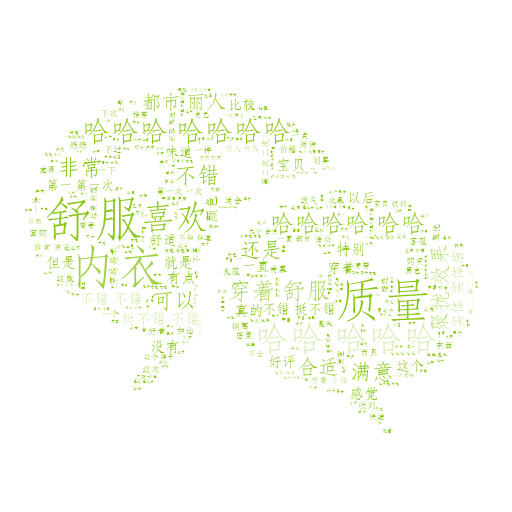
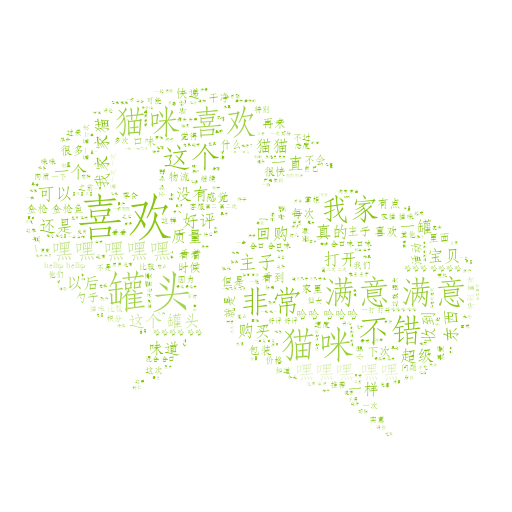
x

Changed region(s): [[0.0312, 0.1562, 0.9375, 0.8438]]

diff --git a/venv/Include/wechat/autoSendMessage.py b/venv/Include/wechat/autoSendMessage.py
@@ -2,6 +2,7 @@
 # Author: zww
 
 import itchat
+import requests
 import re
 # jieba分词
 import jieba
@@ -26,15 +27,17 @@ class WeChat():
         itchat.run()  # 让itchat一直运行
 
     # 回复信息
-    # @itchat.msg_register(itchat.content.TEXT)
-    def tuling_robot(self, msg):
+    # @itchat.msg_register(['Text', 'Picture', 'Sharing', 'Video', 'Card'])
+    def text_reply(self, msg):
         # 为了保证在图灵Key出现问题的时候仍旧可以回复，这里设置一个默认回复
-        defaultReply = '不想说话了！'
+        # defaultReply = '不想说话了！\n来自旺旺的语音助理'
+        defaultReply = '不想说话了！' + "*"
         # 如果图灵Key出现问题，那么reply将会是None
-        reply = self.getget_response(msg['Text'])
+        reply = get_response(msg['Text']) + "*"
         # a or b的意思是，如果a有内容，那么返回a，否则返回b
         # 有内容一般就是指非空或者非None，你可以用`if a: print('True')`来测试
         return reply or defaultReply
+
 
     def get_response(self, msg):
         # 构造了要发送给服务器的数据
@@ -125,28 +128,60 @@ class WeChat():
     def dailyInfo(self):
         print('dailyInfo do')
         hangz = dataUtil.getWeatherData('杭州')
-        # item = wechat.getFriend('阿勇')
-        # wechat.sendMessage(hangz, item)
+        nanchang = dataUtil.getWeatherData('南昌')
+        item = wechat.getFriend('喵喵女孩')
+        wechat.sendMessage(nanchang, item)
         group1 = wechat.getRoom('阿里A3研发部')
         wechat.sendMessage(hangz, group1)
         group2 = wechat.getRoom('幸福一家人')
         wechat.sendMessage(hangz, group2)
-        # if group1:
-        #     wechat.sendMessage(hangz, group1)
 
-
-def viewer( threadName):
-   print(threadName)
+# 回复信息
+# @itchat.msg_register(['Text', 'Picture', 'Sharing', 'Video', 'Card'])
+def text_reply(msg):
+    # 为了保证在图灵Key出现问题的时候仍旧可以回复，这里设置一个默认回复
+    # defaultReply = '不想说话了！\n来自旺旺的语音助理'
+    defaultReply = '不想说话了！' + "*"
+    # 如果图灵Key出现问题，那么reply将会是None
+    reply = get_response(msg['Text']) + "*"
+    # a or b的意思是，如果a有内容，那么返回a，否则返回b
+    # 有内容一般就是指非空或者非None，你可以用`if a: print('True')`来测试
+    return reply or defaultReply
+KEY = '71f9d9d2dd364ad8b28bd56527470176'
+def get_response(msg):
+    # 构造了要发送给服务器的数据
+    apiUrl = 'http://www.tuling123.com/openapi/api'
+    data = {
+        'key': KEY,
+        'info': msg,
+        'userid': 'wechat-robot',
+    }
+    try:
+        r = requests.post(apiUrl, data=data).json()
+        return r.get('text')
+    # 为了防止服务器没有正常响应导致程序异常退出，这里用try-except捕获了异常
+    # 如果服务器没能正常交互（返回非json或无法连接），那么就会进入下面的return
+    except Exception as e:
+        print('插入时发生异常' + e)
+        # 将会返回一个None
+        return
 
 def job1_task(wechat):
     threading.Thread(target=wechat.login()).start()
 
-wechat = WeChat()
-_thread.start_new_thread(wechat.login, ( ))
-schedule.every().day.at("8:00").do(wechat.dailyInfo)
-while True:
-    schedule.run_pending()
-    time.sleep(1)
+# wechat = WeChat()
+# _thread.start_new_thread(wechat.login, ( ))
+# schedule.every().day.at("8:00").do(wechat.dailyInfo)
+# while True:
+#     schedule.run_pending()
+#     time.sleep(1)
+
+# if __name__ == "__main__":
+#     wechat = WeChat()
+#     itchat.auto_login()
+#     friends = wechat.getFriends()
+#     wechat.signature(friends)
+#     wechat.ratio(friends)
 
 # if __name__ == "__main__":
 #     wechat = WeChat()

diff --git a/venv/Include/tmall/captureComment.py b/venv/Include/tmall/captureComment.py
@@ -1,0 +1,76 @@
+# -*- coding:utf-8 -*-
+# Author: zww
+
+from Include.commons.common import Common
+import jieba
+# wordcloud词云
+import matplotlib.pyplot as plt
+from wordcloud import WordCloud, ImageColorGenerator
+import os
+import numpy as np
+import PIL.Image as Image
+import json
+
+common = Common()
+
+# 获取商品评论数据
+def getCommentDetail(itemId,currentPage):
+    url = 'https://rate.tmall.com/list_detail_rate.htm?itemId=' + str(
+        itemId) + '&sellerId=2451699564&order=3&currentPage=' + str(currentPage) + '&append=0callback=jsonp336'
+    # itemId 产品id ； sellerId 店铺id 字段必须有值，但随意值就行
+    html = common.getUrlContent(url)  # 获取网页信息
+    # 删掉返回的多余信息
+    html = html.replace('jsonp128(','') #需要确定是不是 jsonp128
+    html = html.replace(')','')
+    html = html.replace('false','"false"')
+    html = html.replace('true','"true"')
+
+    # 将string 转换为字典对象
+    tmalljson = json.loads(html)
+    return tmalljson
+
+# 获取商品评论最大页数
+def getLastPage(itemId):
+    tmalljson = getCommentDetail(itemId,1)
+    return tmalljson['rateDetail']['paginator']['lastPage'] #最大页数
+
+
+if __name__ == '__main__':
+    itemId = input("输入你想查询的产品id: ");
+    maxPage = getLastPage(itemId)  # 获取商品评论最大页数
+    num = 1
+    commentList = []
+    while num <= maxPage and num < 20:  # 每个商品的评论我最多取20 页，每页有20条评论，也就是每个商品最多只取 400 个评论
+        try:
+            # 抓取某个商品的某页评论数据
+            tmalljson = getCommentDetail(itemId, num)
+            rateList = tmalljson['rateDetail']['rateList']
+
+            n = 0
+            while (n < len(rateList)):
+                rateContent = rateList[n]['rateContent']
+                commentList.append(rateContent)
+                n += 1
+            print(num)
+            num += 1
+        except Exception as e:
+            num += 1
+            print(e)
+            continue
+
+    text = "".join(commentList)
+    wordlist_jieba = jieba.cut(text, cut_all=True)
+    wl_space_split = " ".join(wordlist_jieba)
+
+    d = os.path.dirname(__file__)
+    alice_coloring = np.array(Image.open(os.path.join(d, "shopCart.jpg")))
+    my_wordcloud = WordCloud(background_color="white", max_words=2000, mask=alice_coloring,
+                             max_font_size=50, random_state=42, width=1000, height=860,
+                             font_path='C:/Windows/Fonts/STFANGSO.ttf').generate(wl_space_split)
+
+    image_colors = ImageColorGenerator(alice_coloring)
+    plt.imshow(my_wordcloud.recolor(color_func=image_colors))
+    plt.imshow(my_wordcloud)
+    plt.axis("off")
+    plt.show()
+    my_wordcloud.to_file(os.path.join(d, "shopCart1.png"))

diff --git a/venv/Include/amusement/paint.py b/venv/Include/amusement/paint.py
@@ -5,9 +5,9 @@ from PIL import Image
 #要索引的字符列表
 ascii_char = list("$@B%8&WM#*oahkbdpqwmZO0QLCJUYXzcvunxrjft/\|()1{}[]?-_+~<>i!lI;:,\"^`'. ")
 length = len(ascii_char)
-img = Image.open('06-0.png')      #读取图像文件
+img = Image.open('timg.jpg')      #读取图像文件
 (width,height) = img.size
-img = img.resize((int(width*1),int(height*1)))  #对图像进行一定缩小
+img = img.resize((int(width*1),int(height*0.7)))  #对图像进行一定缩小
 print(img.size)
 def convert(img):
     img = img.convert("L")  # 转为灰度图像
@@ -32,6 +32,6 @@ def convert1(img):
     return txt
 
 txt = convert(img)
-f = open("04_convert.txt","w")
+f = open("04_timg.txt","w")
 f.write(txt)            #存储到文件中
 f.close()
